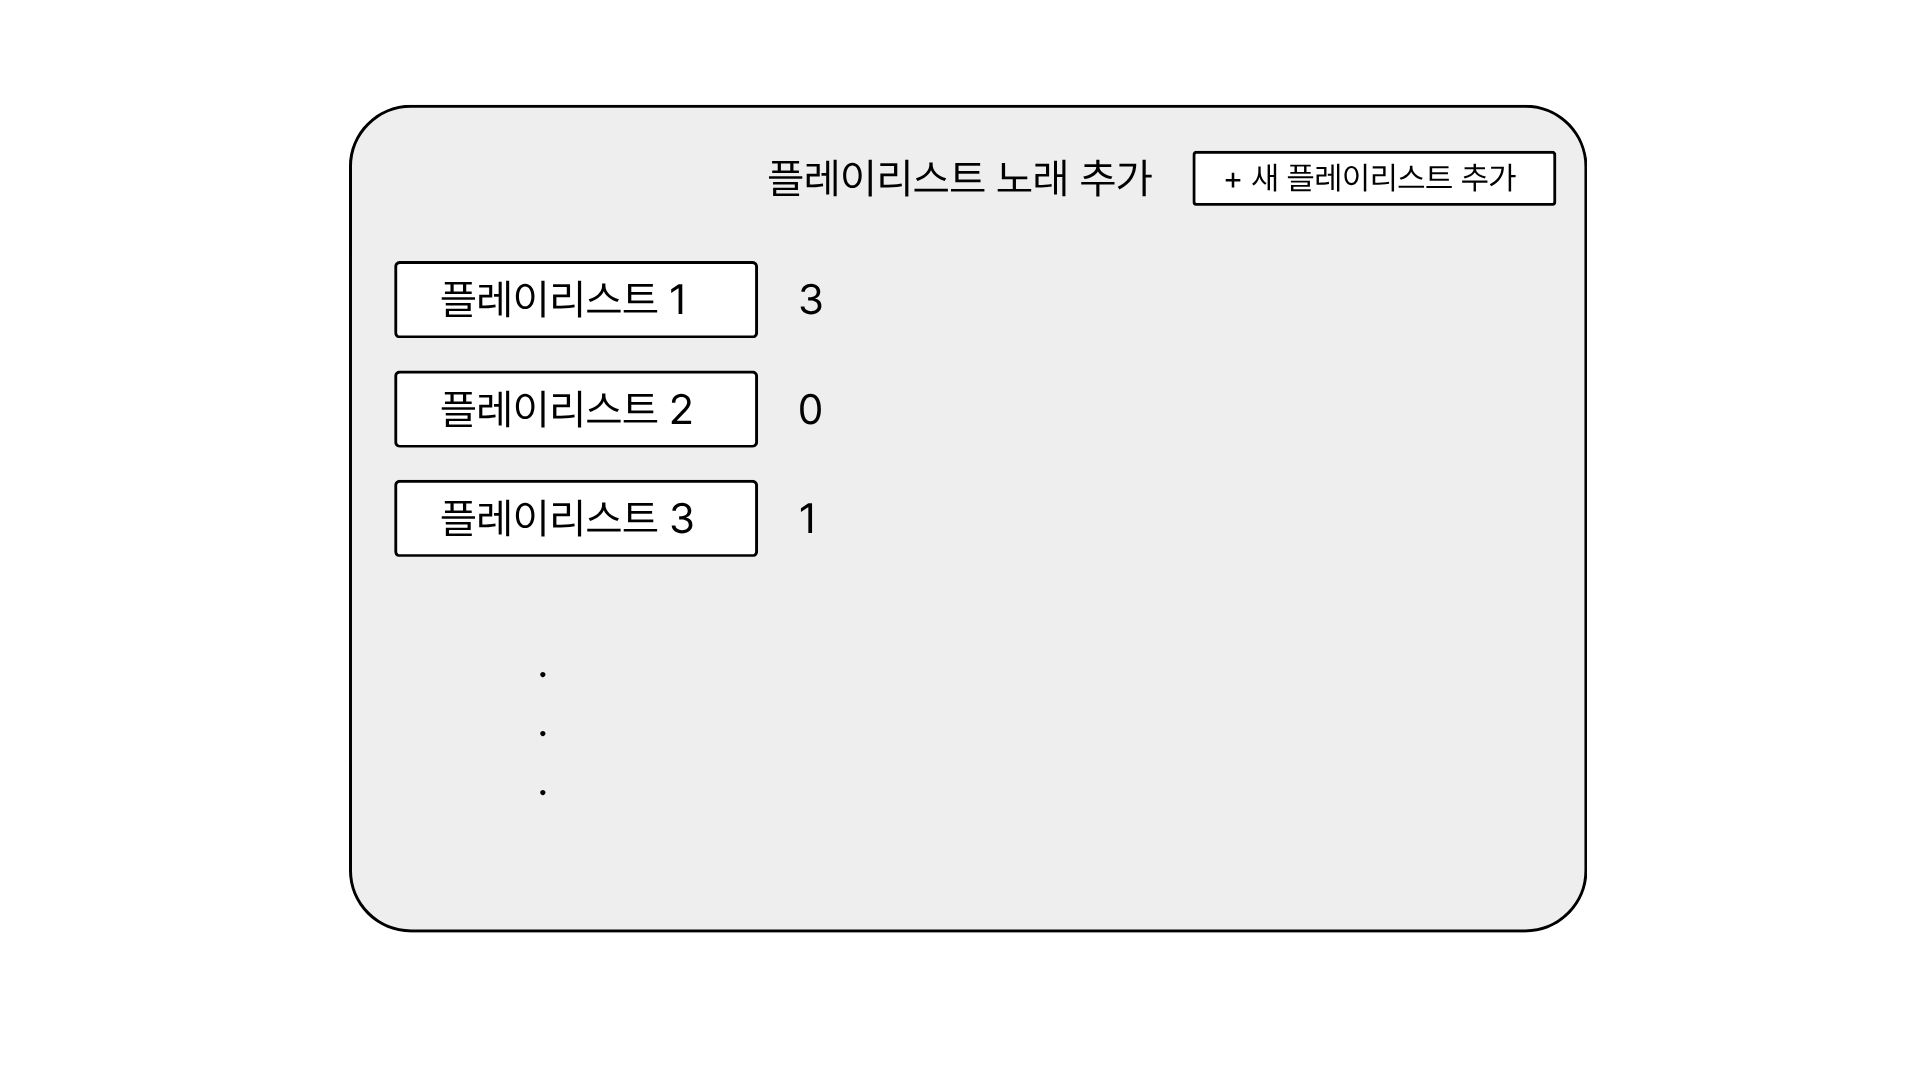
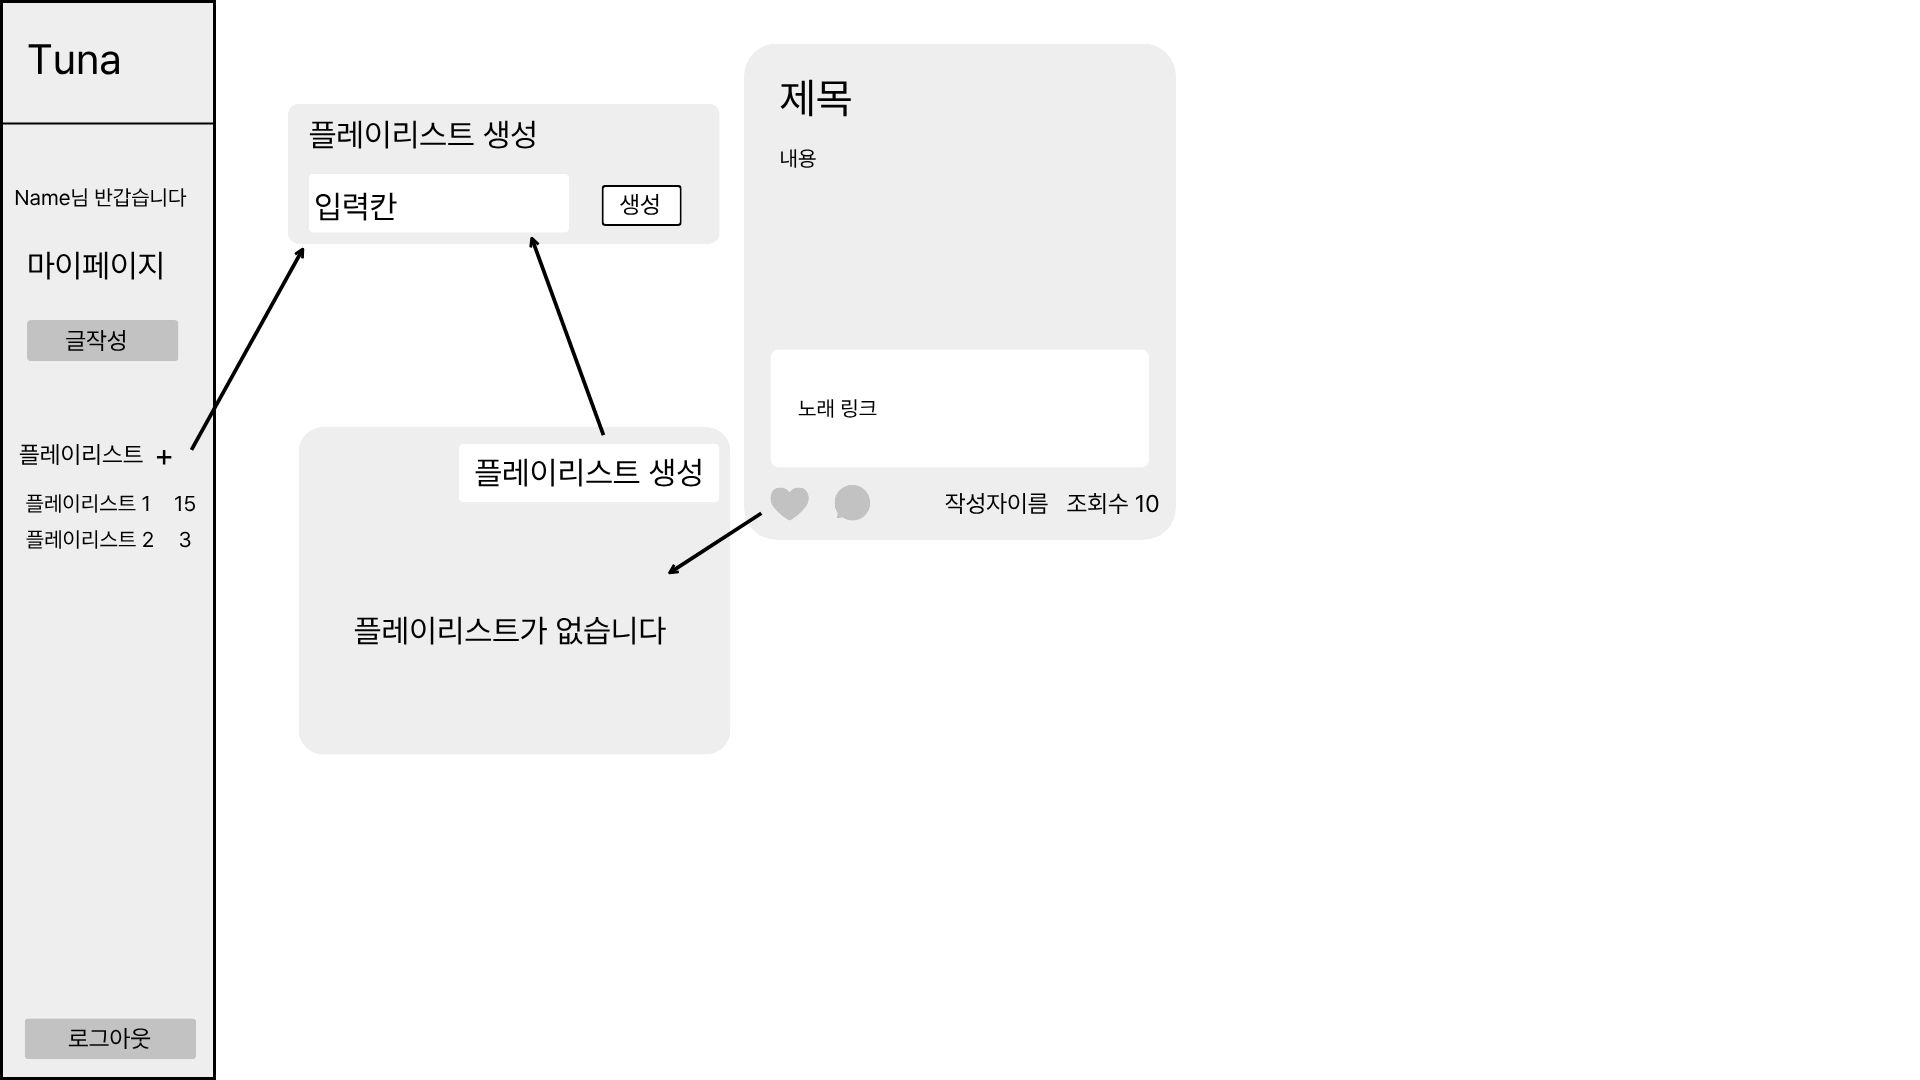
DOCS: 화면 설계서 문서 수정
- wirteframe 문서 수정
- 사진 수정

diff --git a/docs/02_design/03_ui_wireframe.md b/docs/02_design/03_ui_wireframe.md
@@ -42,7 +42,8 @@
 ![home](../images/1-home.jpg)
 
 - 출력 항목
-    - 게시글 목록 영역: 제목, 내용, 링크, 작성자 이름, 조회수 → 게시글 전체 목록 조회
+    - 게시글 목록 영역: 제목, 내용, 링크, 작성자 이름, 조회수, 생성 일시 → 게시글 전체 목록 조회
+        - 생성 일시: 24시간 미만 시 10분 전/1시간 전 이런식으로 표기, 24시간 경과 후 날짜만 표기
 - 입력 데이터 및 검증 규칙 (Input Data & Validation):
     - `/` 페이지는 입력 데이터가 존재 하지 않아 검증 규칙 또한 없습니다.
 - 화면 제어 및 권한 규칙(Behavior Rules):
@@ -57,7 +58,7 @@
 ![post-detail](../images/2-post-detail.jpg)
 
 - 출력 항목
-    - 게시글 본문 영역: 게시글 정보 (제목, 내용, 노래 링크, 작성자 이름, 조회수)
+    - 게시글 본문 영역: 게시글 정보 (제목, 내용, 노래 링크, 작성자 이름, 조회수, 생성 일시)
     - 댓글 영역: 댓글 정보 (댓글 작성자, 댓글 내용)
 - 댓글 - 입력 및 검증 규칙
     - 댓글 내용: 필수 입력 항목, 최대 1000자 이하
@@ -72,20 +73,6 @@
         - 수정 버튼: 해당 댓글 영역이 textarea로 변경
             - 완료 버튼: 유효성 검증 후 댓글 등록 처리, 게시글 새로고침(`/posts/{postId}`리다이렉트)
         - 삭제 버튼: 알림창으로 한번 더 확인 절차를 가진 뒤 “예”를 누르면 댓글 삭제, 게시글 새로고침(`/posts/{postId}`리다이렉트)
-
-## 플레이리스트 노래 추가 팝업
-
-![playlist-popup](../images/11-playlist-popup.jpg)
-
-- 출력 항목:
-    - 플레이리스트 목록 조회
-    - 플레이리스트 내부 post 개수 count
-- 입력 데이터 및 검증 규칙:
-    - 항목 없음
-- 화면 제어 및 권한 규칙 (Behavior Rules):
-    - home 화면의 플레이리스트 추가 버튼(설계서 상에서 하트 모양)을 누를 경우 해당 팝업이 출력
-    - 새 플레이리스트 추가: `/playlists/new` 페이지로 이동
-    - 플레이리스트 1~3: 각 개인이 소유한 플레이리스트 항목. 없을 경우 ‘플레이리스트가 존재하지 않습니다.’ 출력 해당 플레이리스트를 누를 경우 팝업이 꺼지고 ‘추가 되었습니다’ alert 생성
 
 ## 게시글 작성 (Post Create)
 
@@ -116,6 +103,23 @@
     - 취소: `/` 로 이동
     - 수정:  성공 시`/posts/{post_id}` 로 리다이렉트
 
+## 플레이리스트 생성/추가 팝업
+
+![playlist-popup](../images/11-playlist-popup.jpg)
+
+- 출력 항목:
+    - 플레이리스트 생성 팝업: 없음
+    - 플레이리스트 음악 추가 팝업: 사용자 플레이리스트 목록(제목, 저장된 음악 수), 없을 경우 ‘플레이리스트가 존재하지 않습니다.’ 출력
+- 입력 데이터 및 검증 규칙:
+    - 플레이리스트 생성 이름: 최소 1자에서 30자까지 입력, 사용자의 플레이리스트 중 중복된 이름 사용 불가, 문자 허용 규칙은 다음 정규식을 따름: `^[A-Za-z가-힣0-9]+$`
+- 화면 제어 및 권한 규칙 (Behavior Rules):
+    - nav 바 `+` 버튼: 플레이리스트 생성 팝업을 띄웁니다.
+    - 게시물 하트 버튼: 플레이리스트 음악 추가 팝업을 띄웁니다.
+    - 플레이리스트 생성 팝업
+        - 생성 버튼: 이름 유효성 검증 후 플레이리스트를 생성합니다.
+    - 플레이리스트 음악 추가 팝업
+        - 해당 플레이리스트를 누를 경우 팝업이 꺼지고 ‘추가 되었습니다’ alert 생성
+
 ## 플레이리스트 상세 (Playlist Detail)
 
 ![playlist-detail](../images/7-playlist-detail.jpg)
@@ -129,19 +133,6 @@
     - 삭제: 삭제 버튼을 누를 경우 alert으로 삭제 하시겠습니까? (예 / 아니요) 표시 본인 또는 관리자 권한이 필요함
     - 수정: `/playlists/{playlist_id}/edit` 페이지로 이동 본인 또는 관리자 권한이 필요함
     - 실제 유튜브 영상은 youtube iframe api를 따름 (static/js/youtube-playlist-player.js)
-
-## 플레이리스트 생성 (Playlist Create)
-
-![playlist-create](../images/5-playlist-create.jpg)
-
-- 출력 항목
-    - 항목 없음
-- 입력 데이터 및 검증 규칙 (Input Data & Validation):
-    - 플레이리스트 이름: 최소 1자에서 30자까지 입력, 사용자의 플레이리스트 중 중복된 이름 사용 불가, 문자 허용 규칙은 다음 정규식을 따름: `^[A-Za-z가-힣0-9]+$`
-- 화면 제어 및 권한 규칙(Behavior Rules):
-    - 본문 영역:
-        - 취소: `/` 로 이동
-        - 만들기: `/playlists/new` 로 post 요청 후 생성이 성공되면`/playlists/{playlist_id}` 로 이동, 실패시 다시 `playlists/new` 로 리다이렉트 후 에러 메세지 출력
 
 ## 플레이리스트 수정 (Playlist Edit)
 
